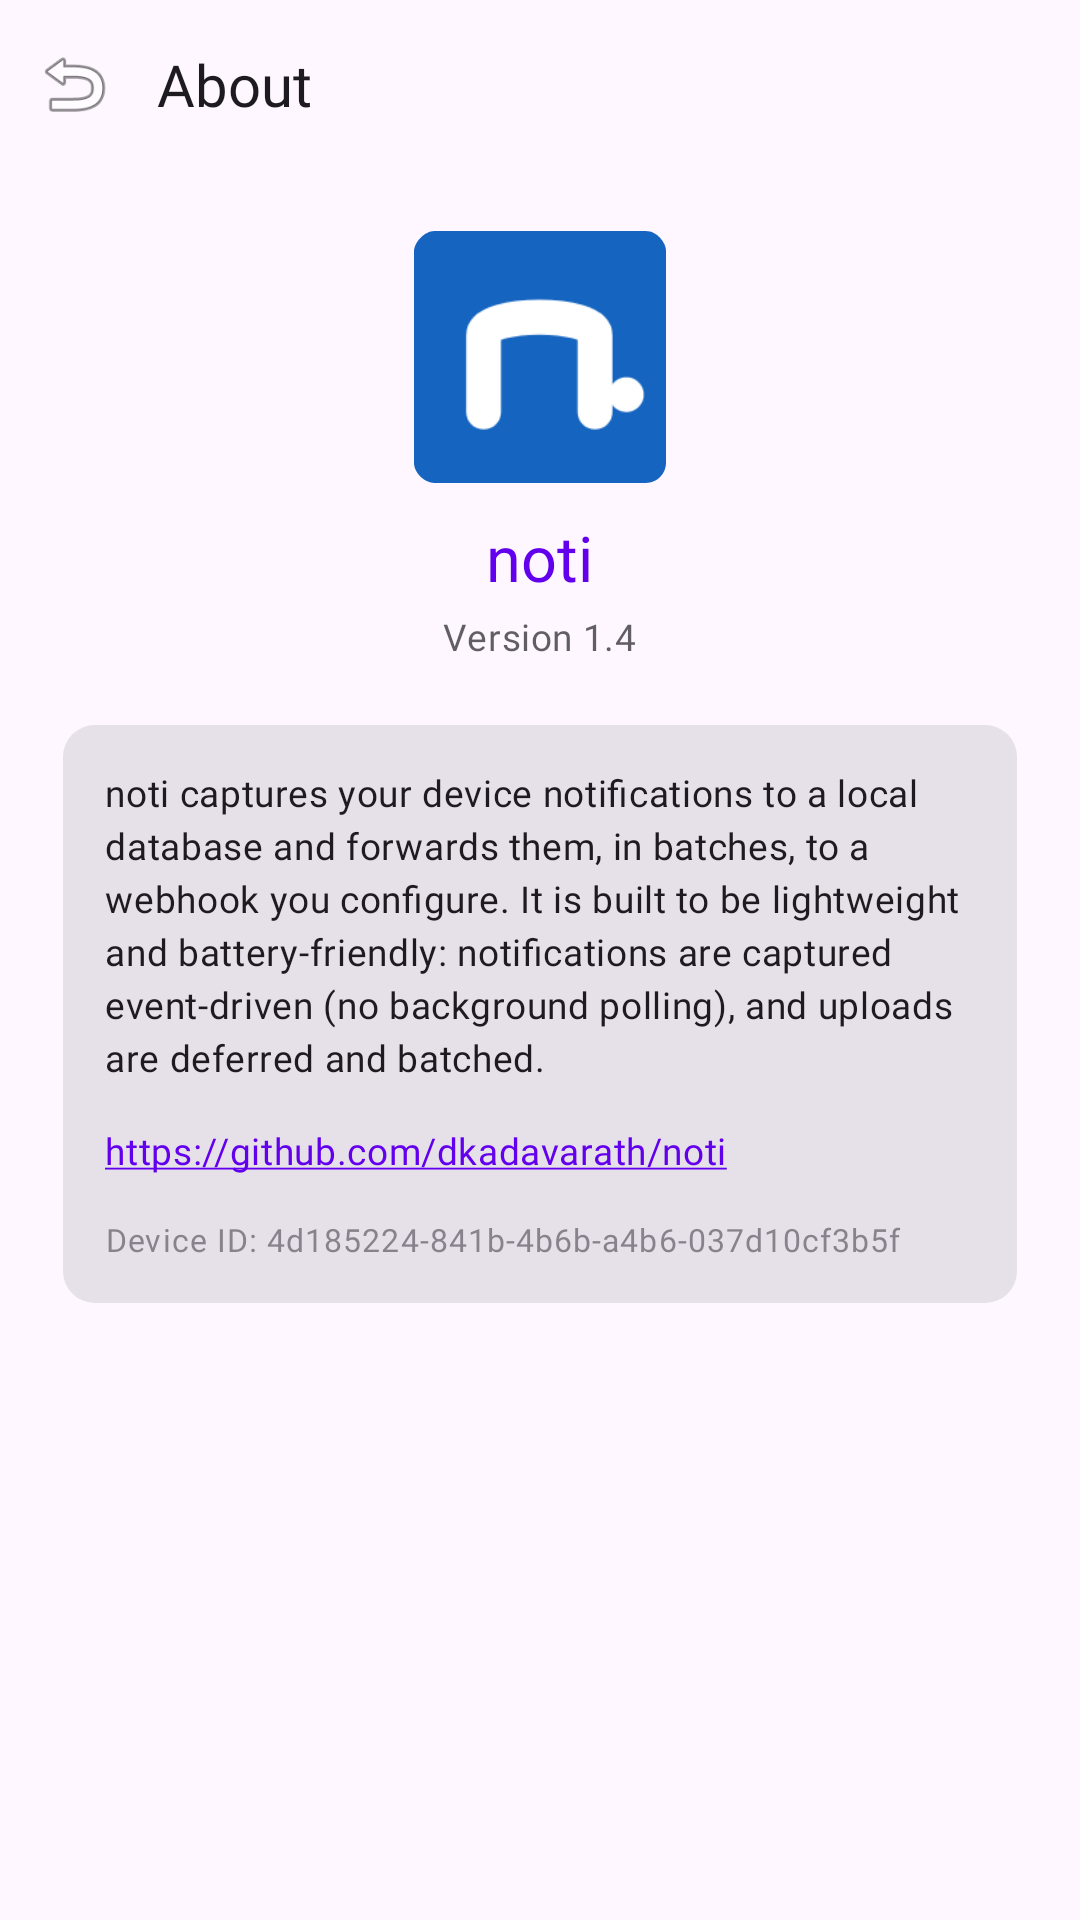
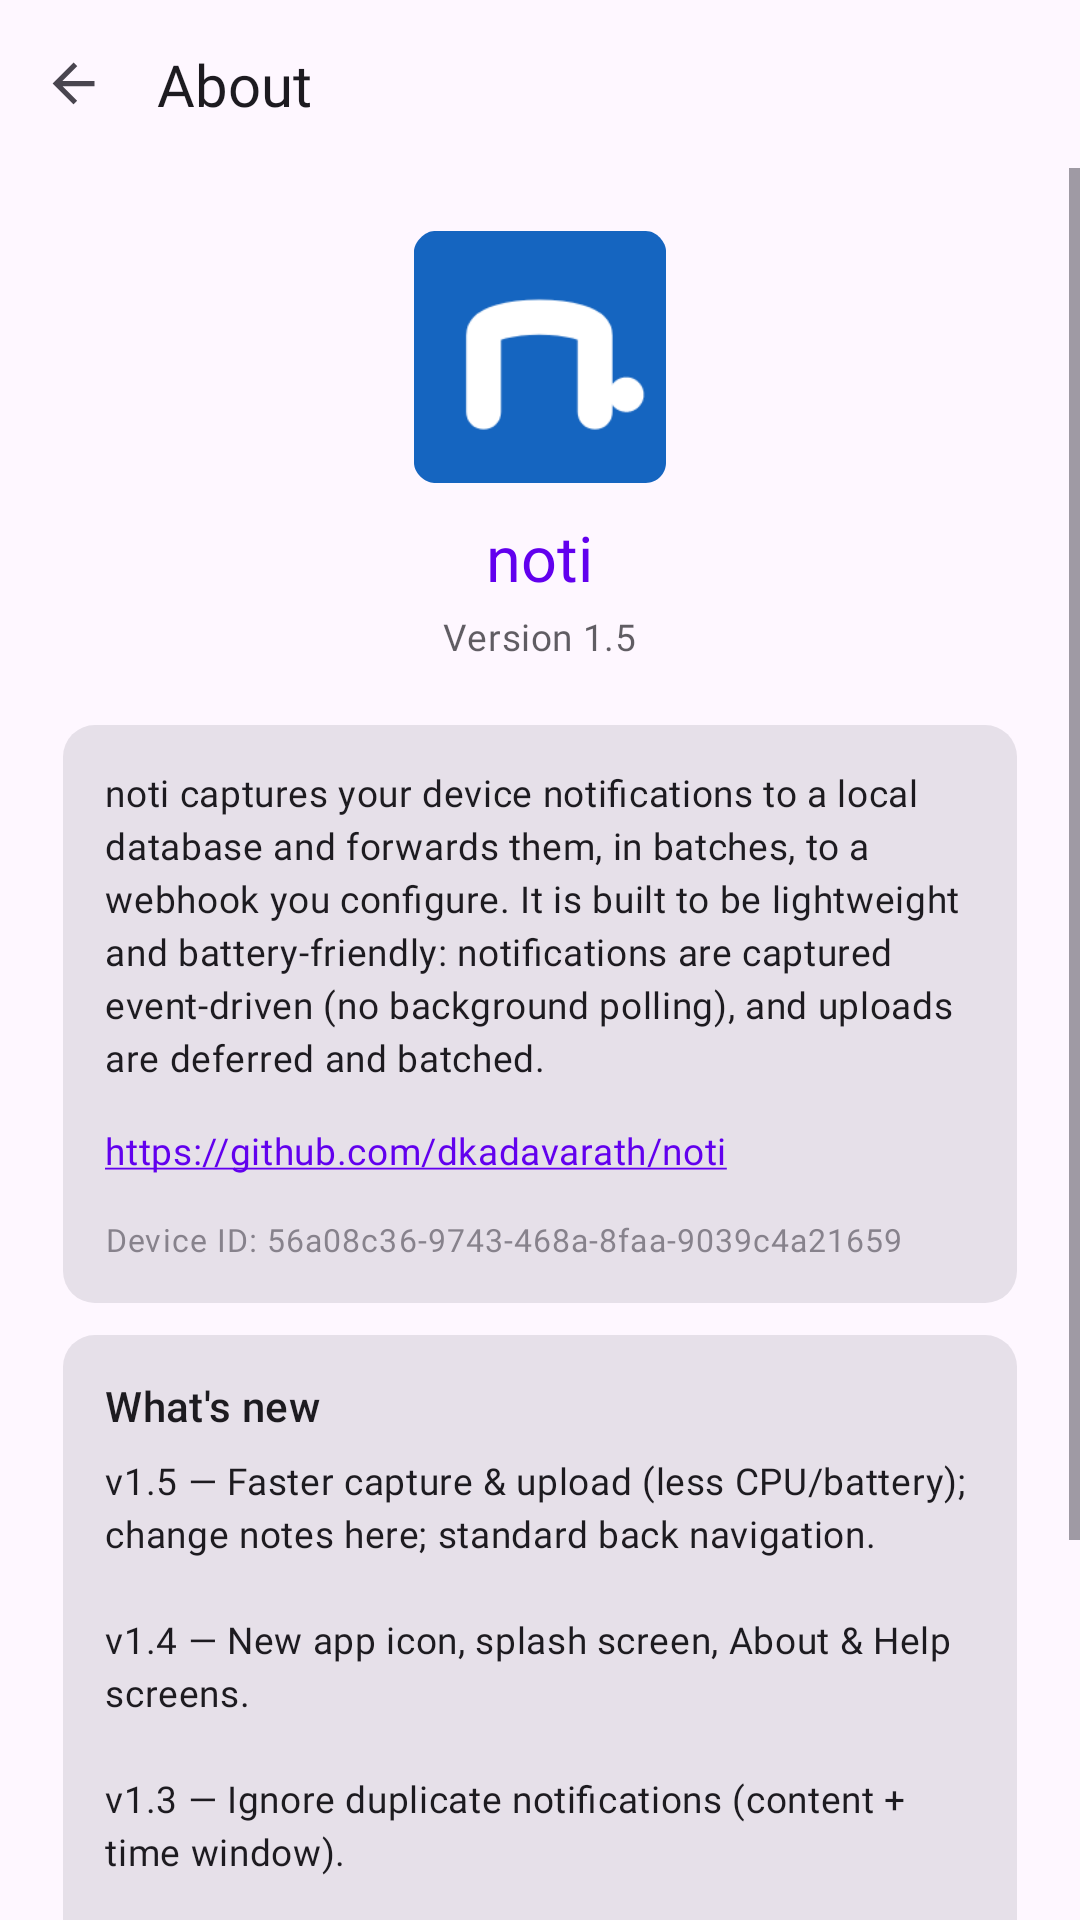
v1.5: changelog in About, standard up-navigation
- About: add a "What's new" changelog card (v1.5..v1.0).
- About/Help: replace the custom (ugly) revert icon with the platform default
  up-navigation via setSupportActionBar + home-as-up + onSupportNavigateUp.
- Refresh About screenshot and README version references.

diff --git a/app/src/main/kotlin/com/noti/logger/ui/AboutActivity.kt b/app/src/main/kotlin/com/noti/logger/ui/AboutActivity.kt
@@ -6,7 +6,6 @@ import android.widget.TextView
 import androidx.appcompat.app.AppCompatActivity
 import androidx.core.view.ViewCompat
 import androidx.core.view.WindowInsetsCompat
-import com.google.android.material.appbar.MaterialToolbar
 import com.noti.logger.R
 import com.noti.logger.config.Settings
 
@@ -23,7 +22,9 @@ class AboutActivity : AppCompatActivity() {
             insets
         }
 
-        findViewById<MaterialToolbar>(R.id.toolbar).setNavigationOnClickListener { finish() }
+        // Standard platform up-navigation (default back arrow + system behaviour).
+        setSupportActionBar(findViewById(R.id.toolbar))
+        supportActionBar?.setDisplayHomeAsUpEnabled(true)
 
         val version = try {
             packageManager.getPackageInfo(packageName, 0).versionName
@@ -34,5 +35,10 @@ class AboutActivity : AppCompatActivity() {
 
         findViewById<TextView>(R.id.tv_device_id).text =
             getString(R.string.about_device_id, Settings.get(this).deviceId)
+    }
+
+    override fun onSupportNavigateUp(): Boolean {
+        finish()
+        return true
     }
 }

diff --git a/app/src/main/kotlin/com/noti/logger/ui/HelpActivity.kt b/app/src/main/kotlin/com/noti/logger/ui/HelpActivity.kt
@@ -8,7 +8,6 @@ import android.widget.TextView
 import androidx.appcompat.app.AppCompatActivity
 import androidx.core.view.ViewCompat
 import androidx.core.view.WindowInsetsCompat
-import com.google.android.material.appbar.MaterialToolbar
 import com.noti.logger.R
 
 class HelpActivity : AppCompatActivity() {
@@ -35,7 +34,8 @@ class HelpActivity : AppCompatActivity() {
             insets
         }
 
-        findViewById<MaterialToolbar>(R.id.toolbar).setNavigationOnClickListener { finish() }
+        setSupportActionBar(findViewById(R.id.toolbar))
+        supportActionBar?.setDisplayHomeAsUpEnabled(true)
 
         val container = findViewById<LinearLayout>(R.id.help_container)
         val inflater = LayoutInflater.from(this)
@@ -45,5 +45,10 @@ class HelpActivity : AppCompatActivity() {
             card.findViewById<TextView>(R.id.tv_topic_body).setText(bodyRes)
             container.addView(card)
         }
+    }
+
+    override fun onSupportNavigateUp(): Boolean {
+        finish()
+        return true
     }
 }

diff --git a/README.md b/README.md
@@ -3,7 +3,7 @@
 ![Platform](https://img.shields.io/badge/platform-Android-3ddc84)
 ![minSdk](https://img.shields.io/badge/minSdk-26-1565c0)
 ![targetSdk](https://img.shields.io/badge/targetSdk-35-1565c0)
-![Release](https://img.shields.io/badge/release-v1.4-1565c0)
+![Release](https://img.shields.io/badge/release-v1.5-1565c0)
 ![Language](https://img.shields.io/badge/kotlin-100%25-7f52ff)
 
 A deliberately **lightweight**, native-Kotlin Android app that logs your device notifications to
@@ -67,7 +67,7 @@ Grab the latest signed APK from **[Releases](https://github.com/dkadavarath/noti
 (`noti-vX.Y.apk`) and sideload it:
 
 ```
-adb install noti-v1.4.apk
+adb install noti-v1.5.apk
 ```
 
 Google Play Protect may warn on a sideloaded app that reads notifications — choose *Install anyway*
